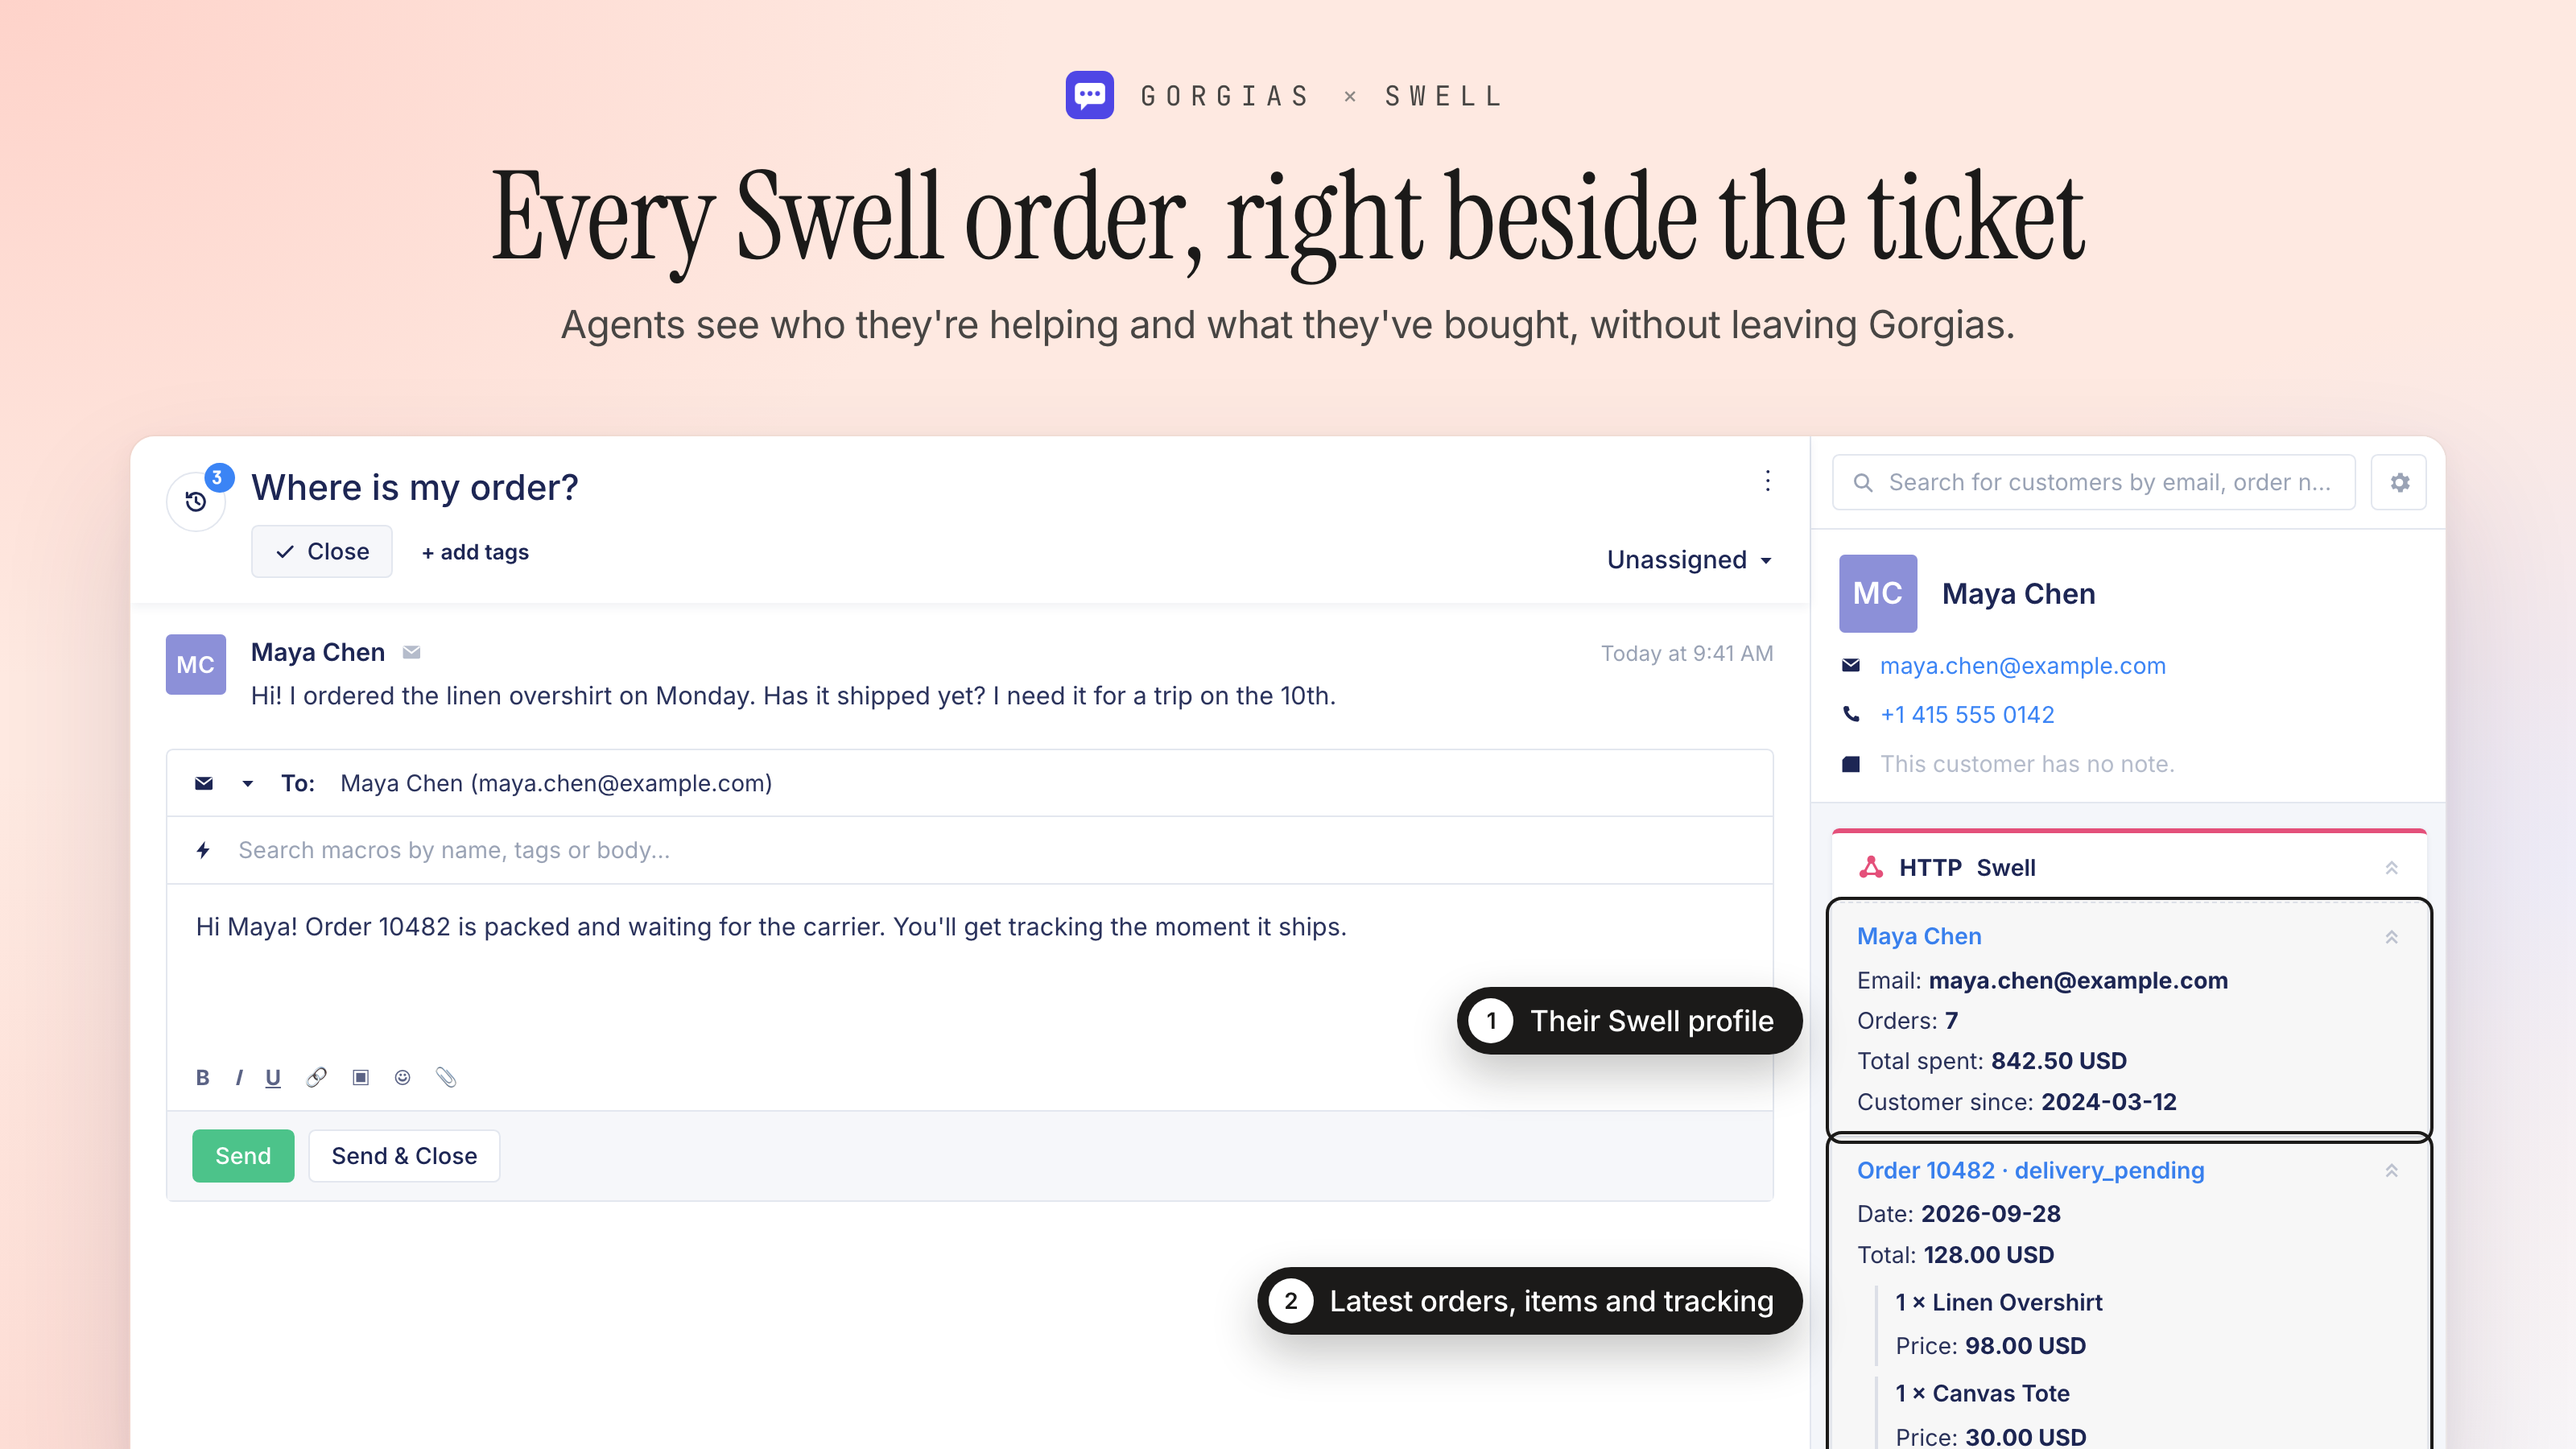
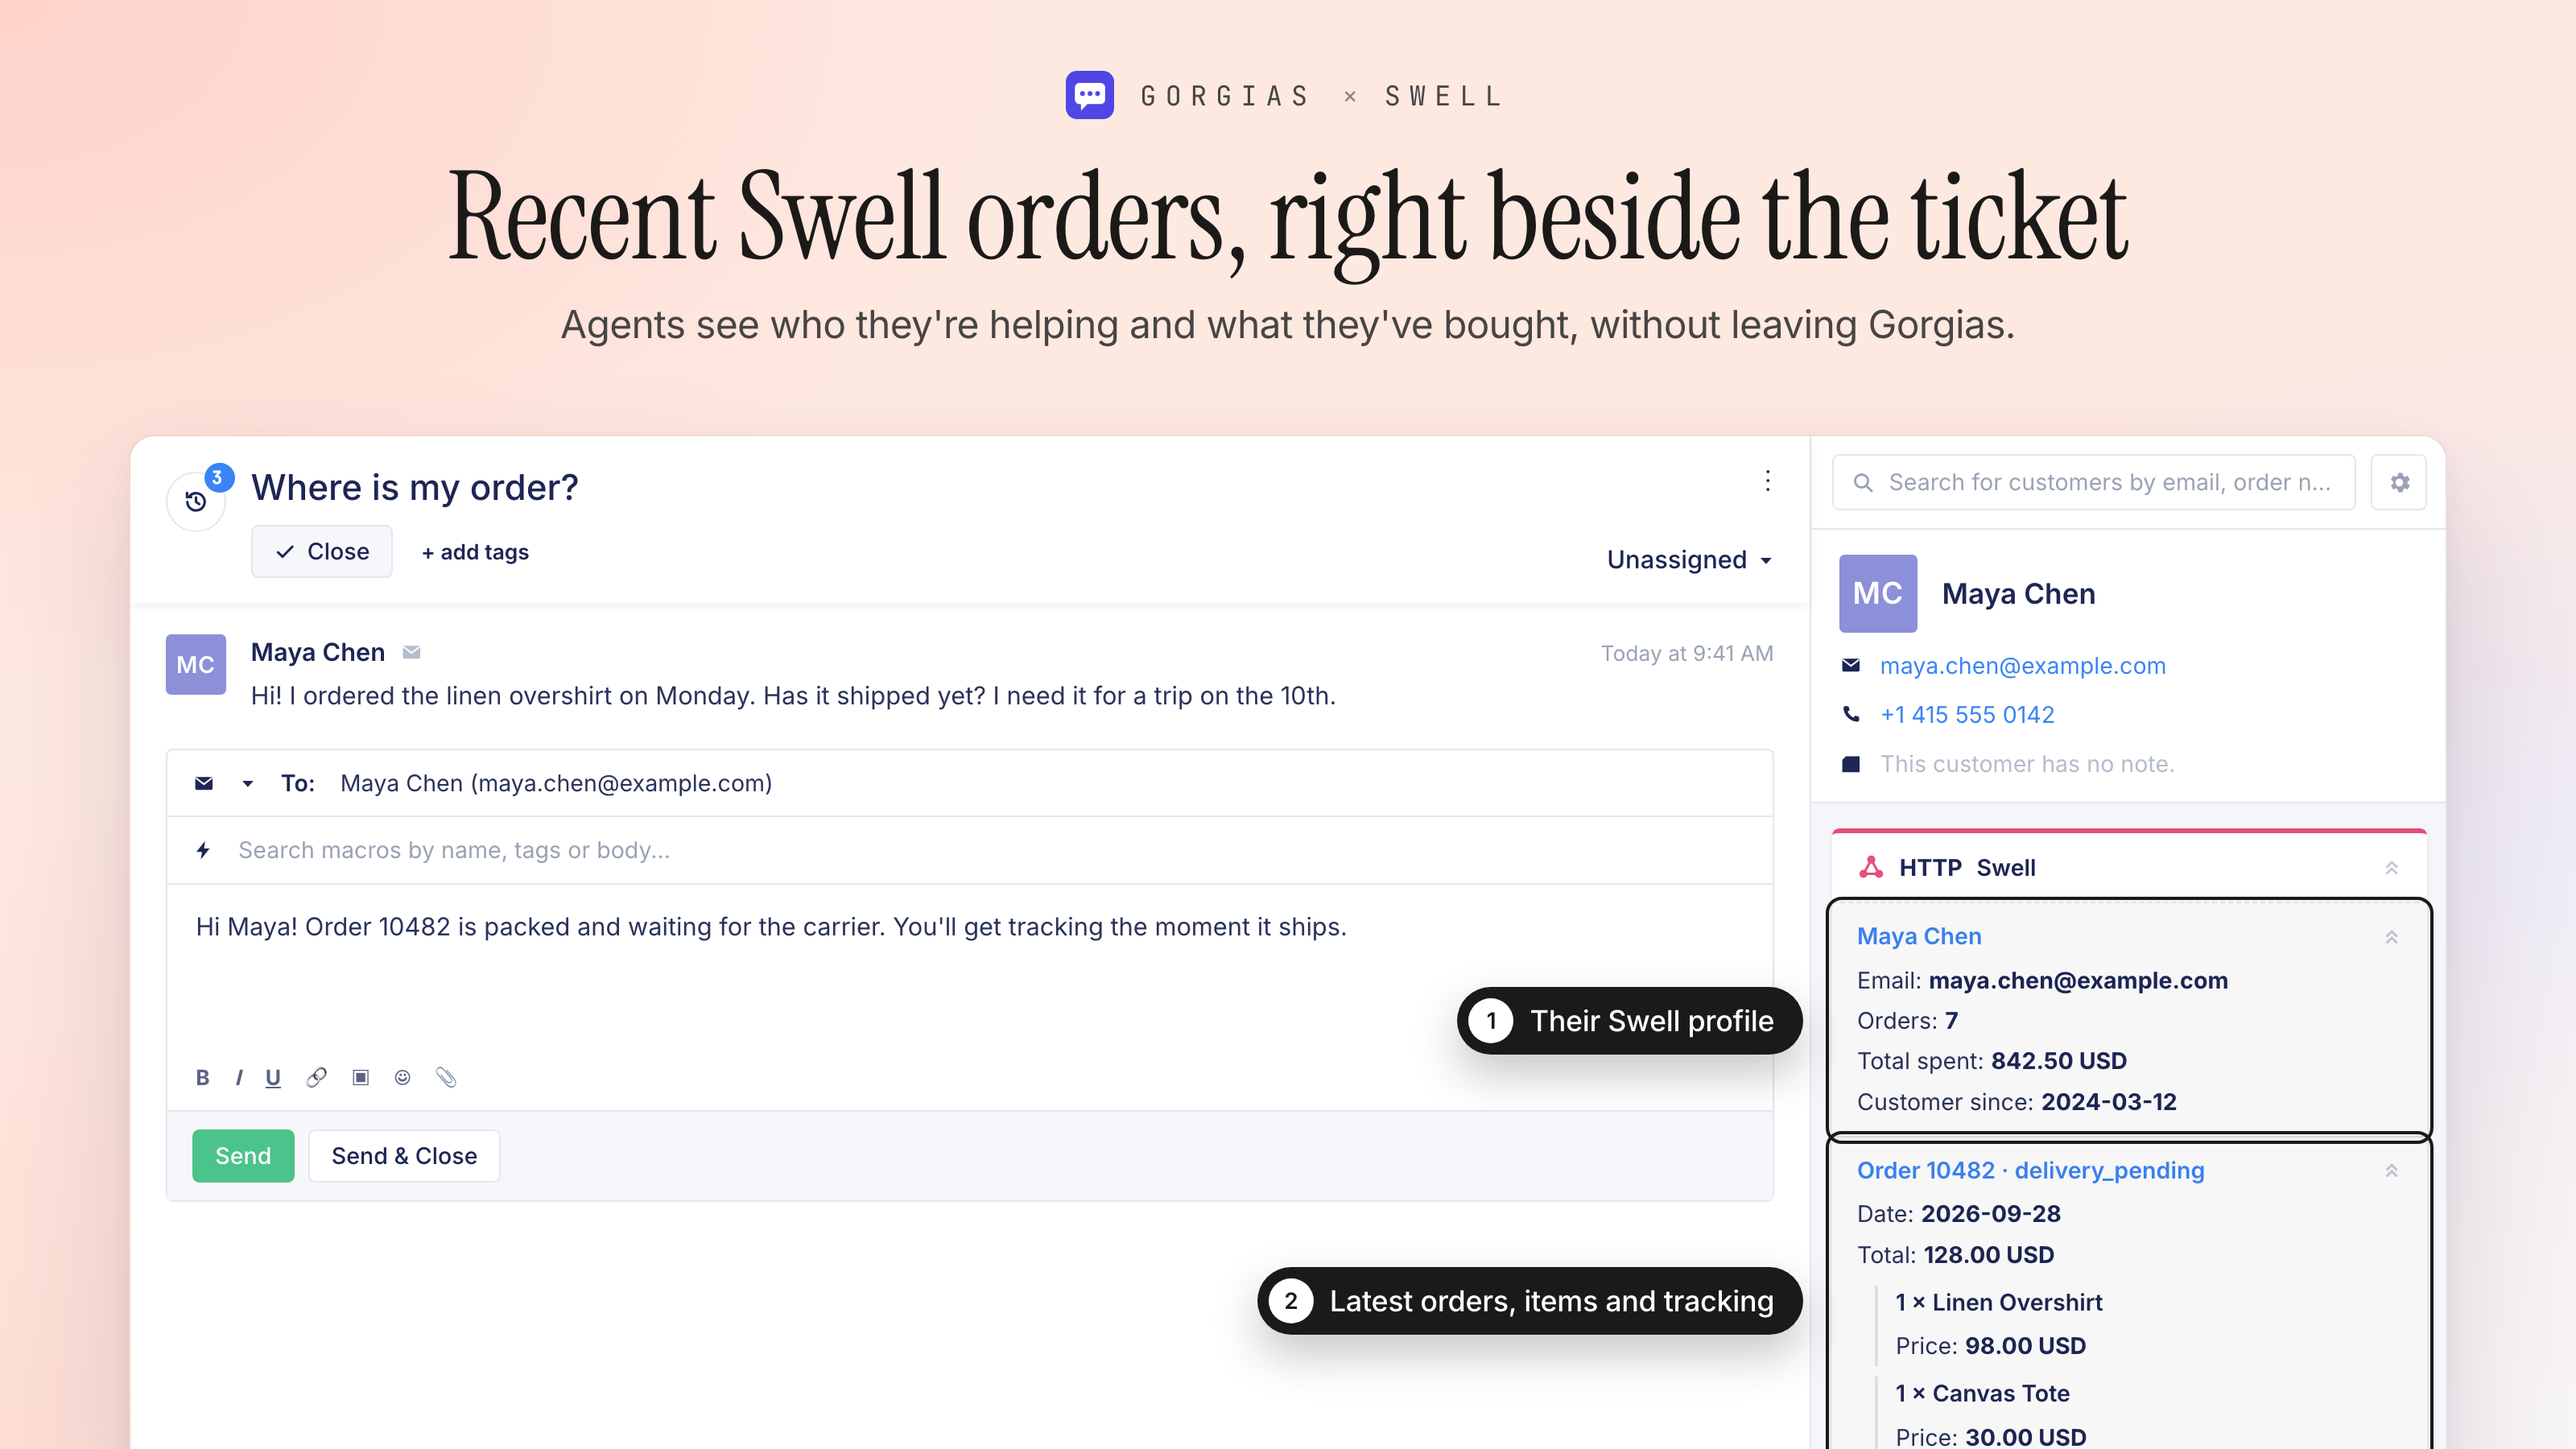
Rewrite the listing images for API-key setup and link the app guide
- Image 4 now shows the app settings: the Gorgias connection fields and the
  Status line, with no info icons next to the field labels
- Image 3 drops the Gorgias menu item and Connect page, which are gone
- Images 1 and 2 headlines describe what they show: the recent orders
  beside the ticket, and the open tickets on each customer
- Adds the 1200x630 social card (assets/image.png)
- documentation_url points to the new guide at
  developers.swell.is/app-guides/gorgias

Changed region(s): [[0.1562, 0.0933, 0.8438, 0.2178]]

diff --git a/README.md b/README.md
@@ -122,7 +122,7 @@ swell api post /functions/gorgias/connect
 
 ```
 swell.json          App manifest (id, type, permissions)
-assets/             App icon and App Store screenshots
+assets/             App icon, social card and App Store screenshots
 content/            Admin UI fields added to customer records
 functions/          Swell functions and shared lib/
 models/             Customer fields and the connections collection
